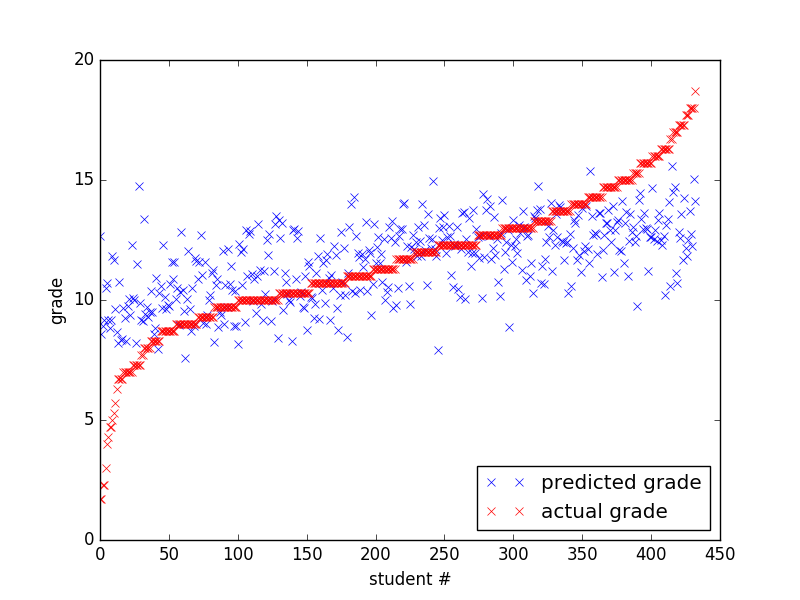
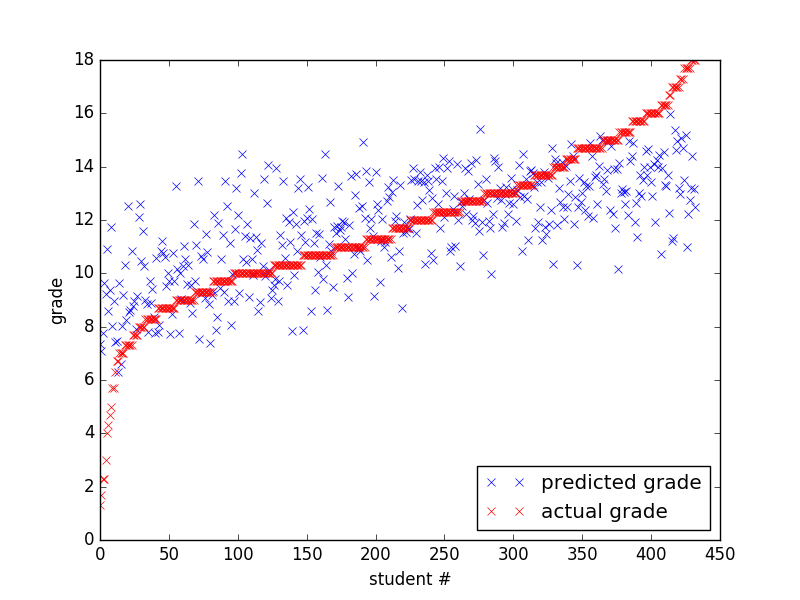
fix relative error computation

diff --git a/nn/regression.py b/nn/regression.py
@@ -50,7 +50,7 @@ y_train = [ [float(x[-1])] for x in train_set ]
 
 # Parameters
 learning_rate   = 0.001
-training_epochs = 1000
+training_epochs = 2000
 display_step    = 100
 
 
@@ -100,14 +100,15 @@ pred = multilayer_perceptron(x, weights, biases)
 cost = tf.reduce_mean(tf.square(pred - y))
 #optm = tf.train.GradientDescentOptimizer(learning_rate=learning_rate).minimize(cost)
 optm = tf.train.AdamOptimizer(learning_rate).minimize(cost)
-##corr = tf.equal(tf.argmax(pred, 1), tf.argmax(y, 1))
 
+# Define stats
 mae = tf.reduce_mean(tf.abs(pred - y))
-rmse = tf.sqrt(tf.reduce_mean(tf.square(pred - y)))
+mse = tf.reduce_mean(tf.square(pred - y))
+rmse = tf.sqrt(mse)
 
-y_avg = reduce(lambda x_, y_: x[0] + y[0], y_train) / len(y_train)
-rae = mae/(tf.reduce_mean(tf.abs(y_avg - y)))
-rrse = rmse/tf.sqrt(tf.reduce_mean(tf.square(y_avg - y)))
+y_avg = np.mean(y_train)
+rae = mae/tf.reduce_mean(tf.abs(y_avg - y))
+rrse = tf.sqrt(mse/tf.reduce_mean(tf.square(y_avg - y)))
 
 
 # Initializing the variables
@@ -126,7 +127,6 @@ test_costs = []
 
 for epoch in range(training_epochs):
     # Fit training
-    #print(sess.run(pred, feed_dict={x: x_train, y: y_train}))
     sess.run(optm, feed_dict={x: x_train, y: y_train})
     # Compute average loss
     loss = sess.run(cost, feed_dict={x: x_train, y: y_train})
